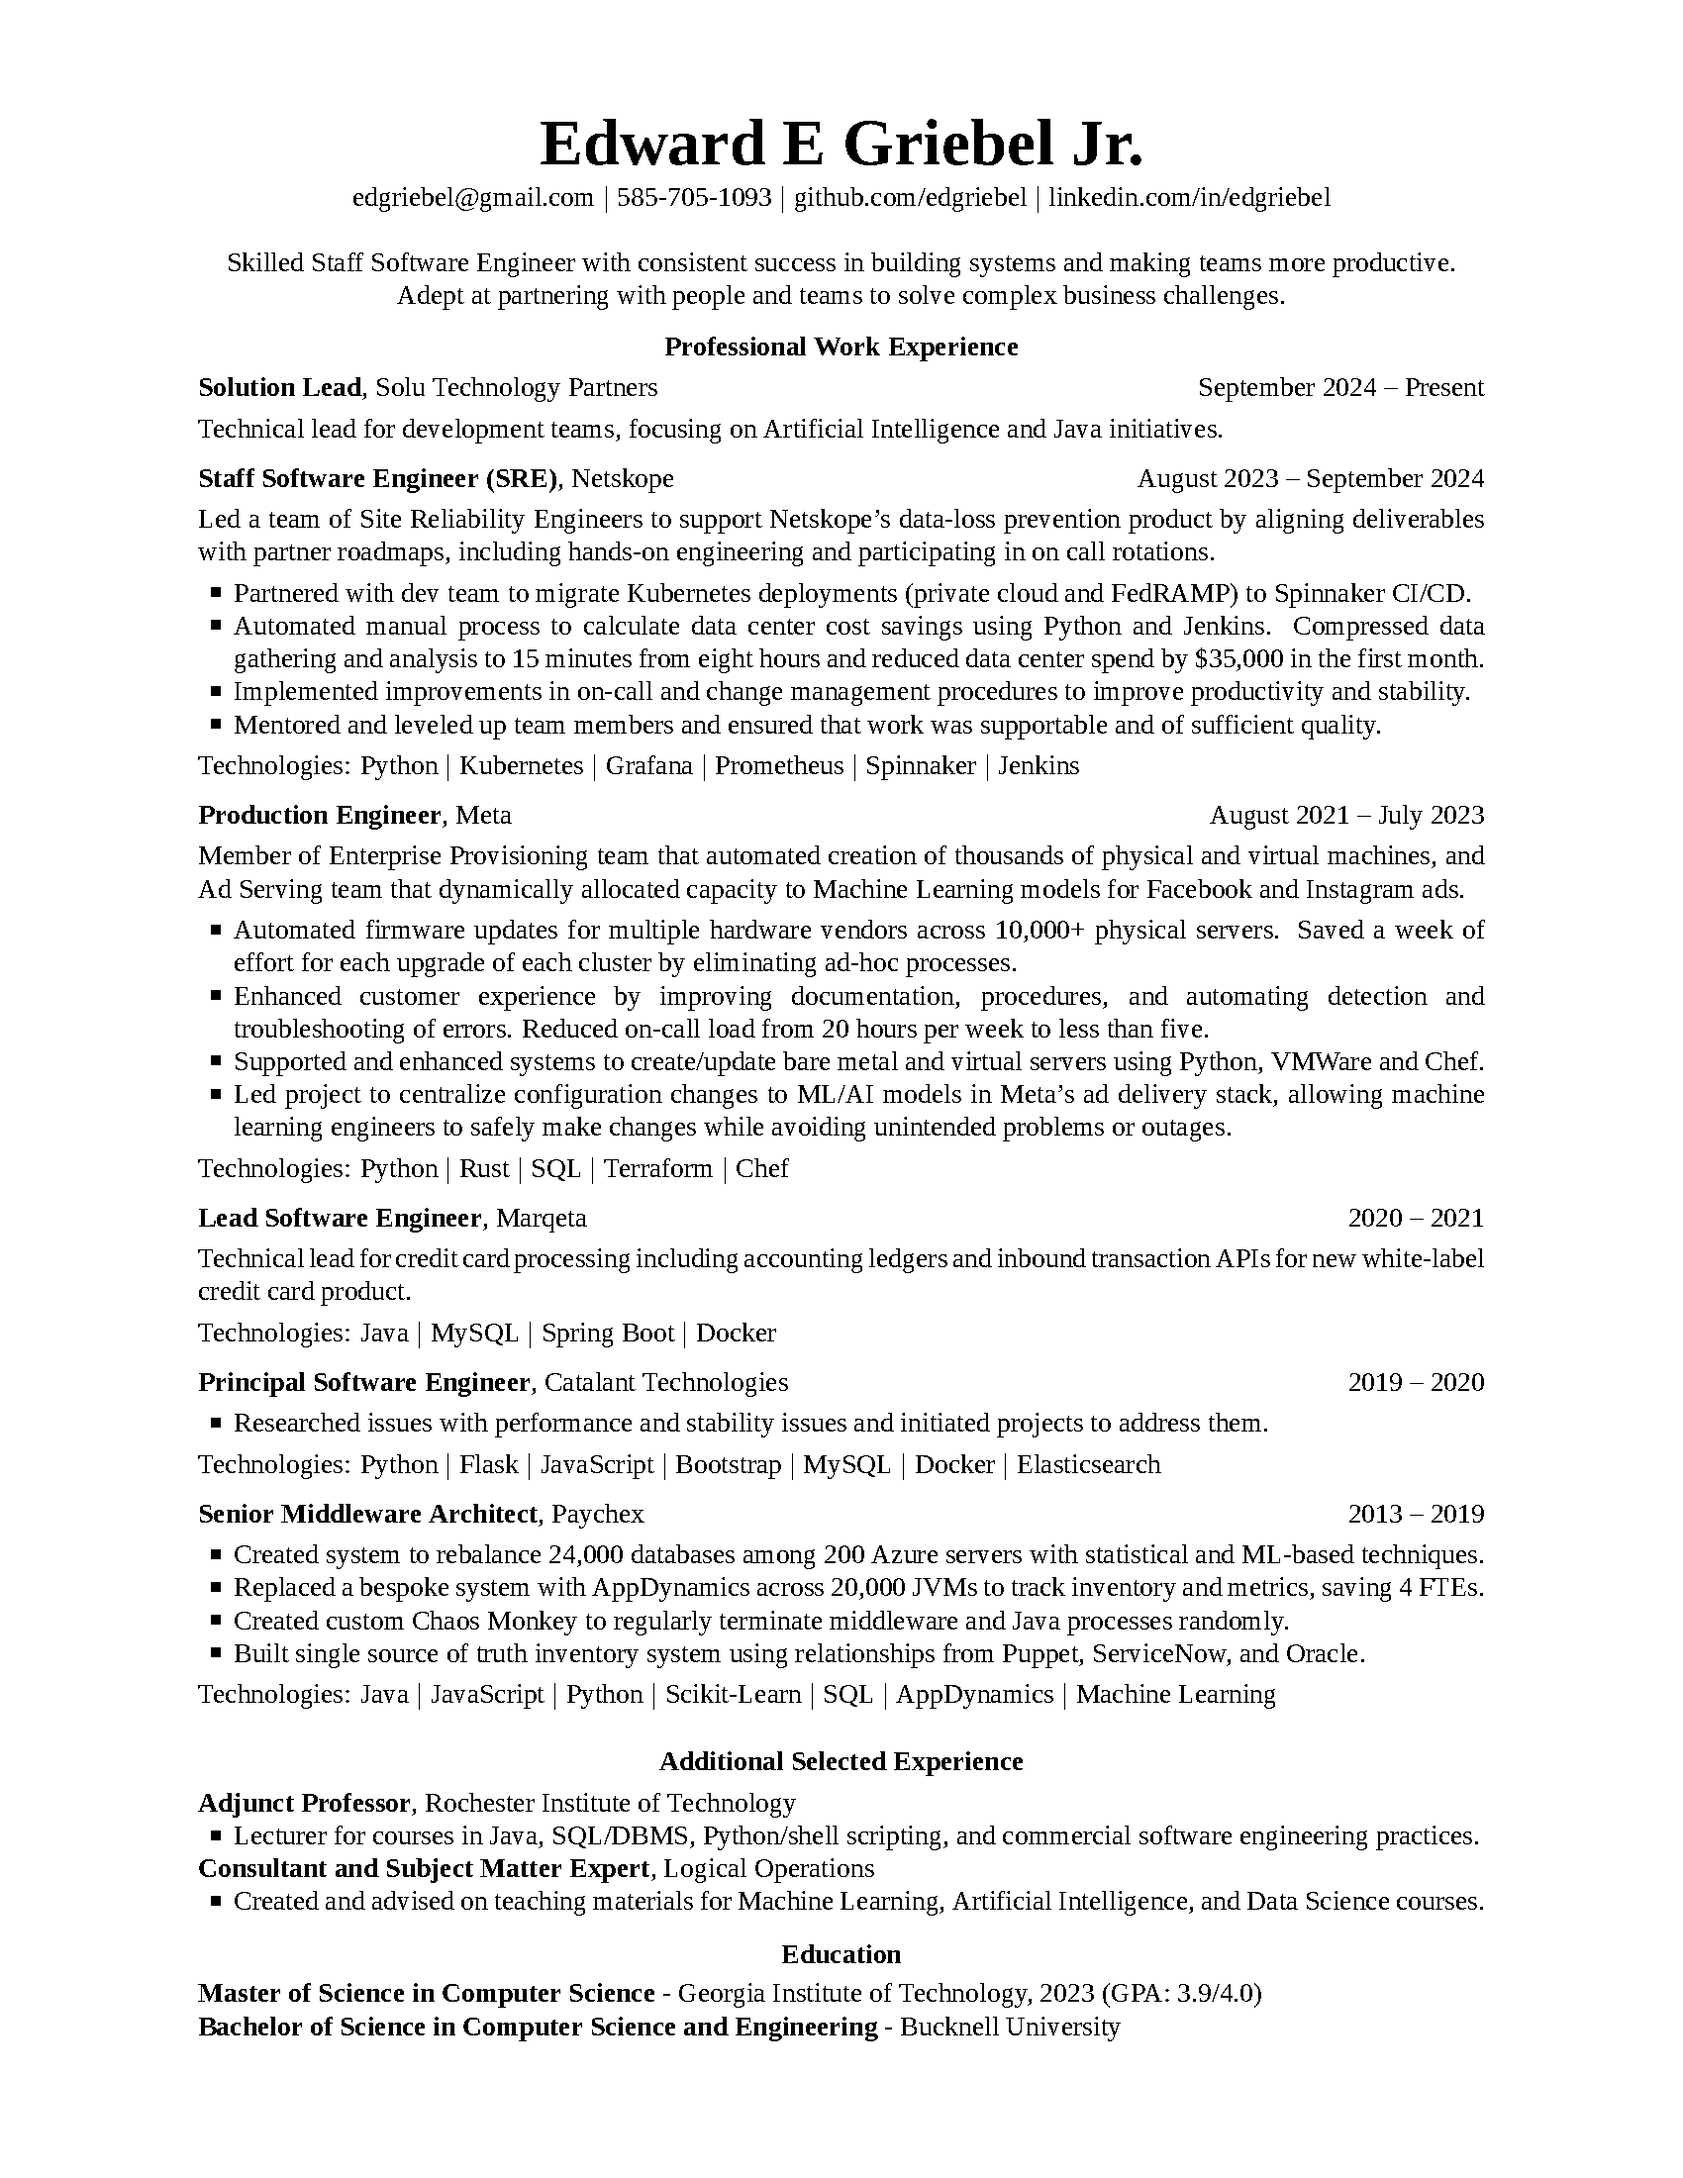
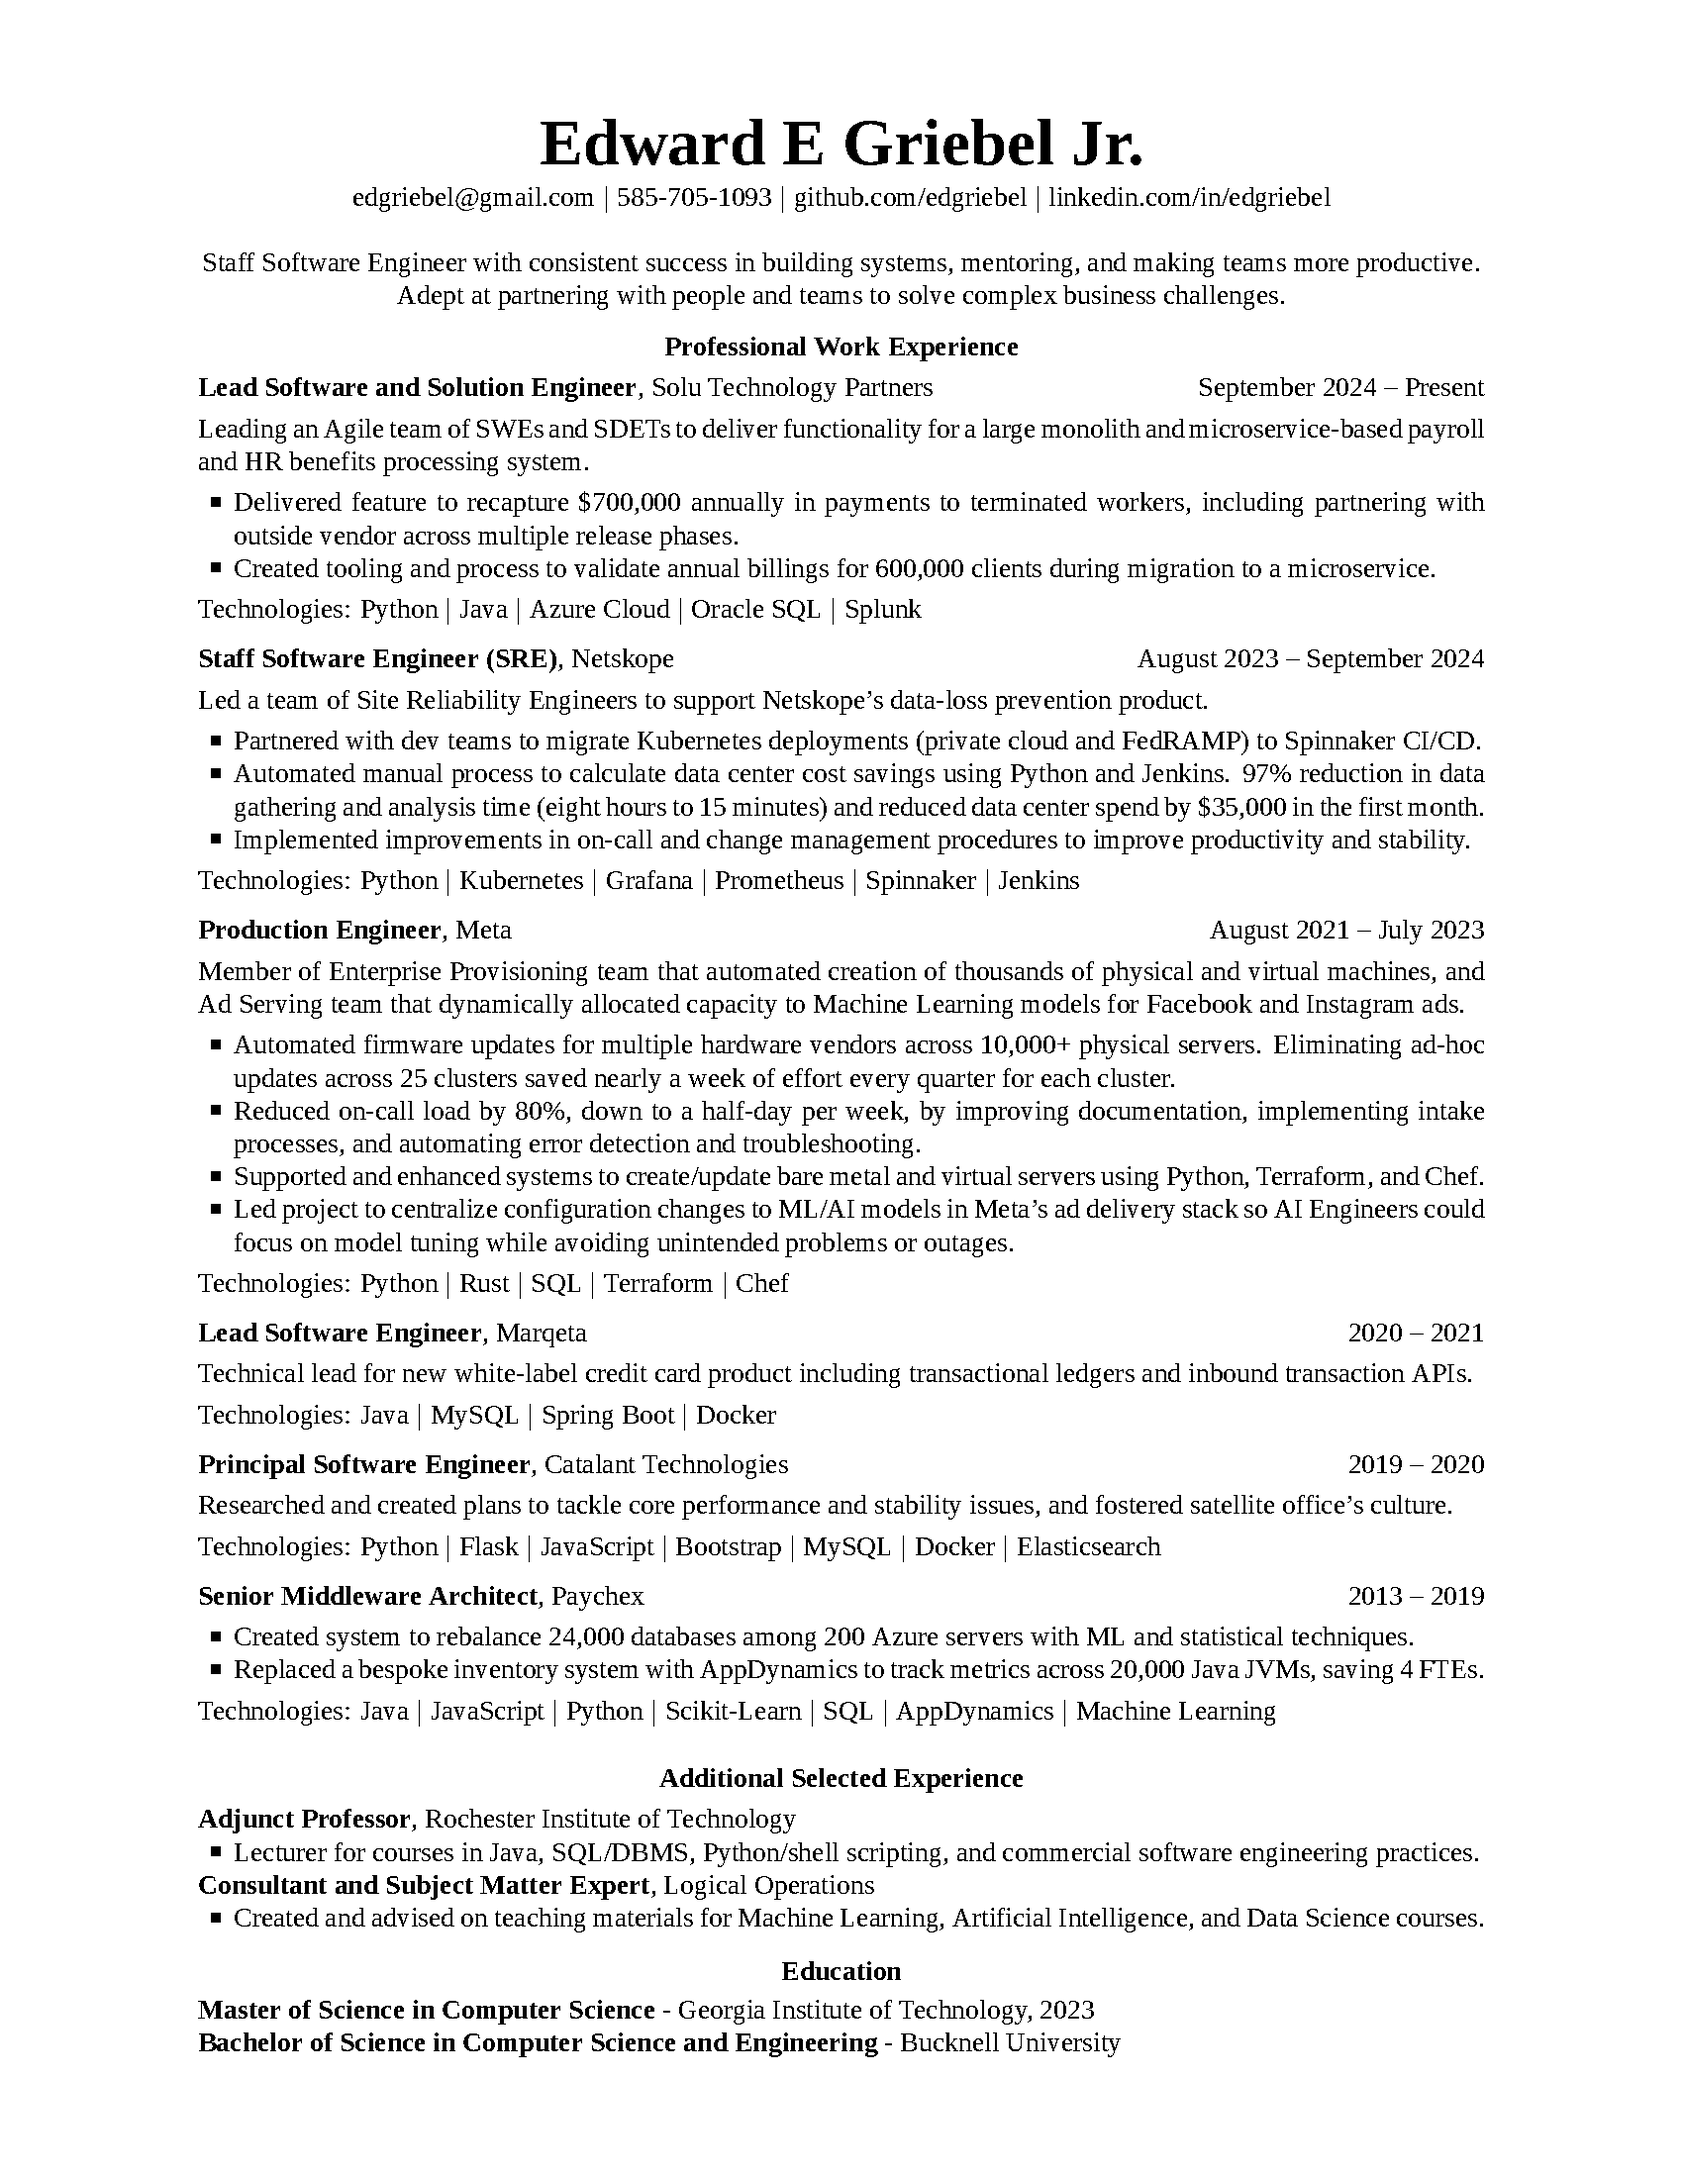
Flesh out Solu, tweak Meta, Nskp, Payx

Changed region(s): [[0.1247, 0.1545, 0.8729, 0.9582], [0.8106, 0.6182, 0.8729, 0.6491], [0.7171, 0.5564, 0.7482, 0.5873]]

diff --git a/Ed_Griebel_Resume.tex b/Ed_Griebel_Resume.tex
@@ -123,7 +123,7 @@ $|$ %% \,\SubBulletSymbol\,
 %% An accomplished full stack developer with consistent successes across multiple industries. 
 %% Deeply passionate about collaborating with others to design and deliver innovative systems that address complex business challenges. 
 \begin{center}
-Skilled Staff Software Engineer with consistent success in building systems and making teams more productive.
+Staff Software Engineer with consistent success in building systems, mentoring, and making teams more productive.
 Adept at partnering with people and teams to solve complex business challenges.
 
 %% \BigGap
@@ -145,16 +145,22 @@ Adept at partnering with people and teams to solve complex business challenges.
 {PDF:ProfessionalWorkExperience}
 
 \Entry
-\textbf{Solution Lead}, Solu Technology Partners
+\textbf{Lead Software and Solution Engineer}, Solu Technology Partners
 \hfill
 \DatestampYM{2024}{09} -- Present
 
 \Gap
 \begin{Detail}
-Technical lead for development teams, focusing on Artificial Intelligence and Java initiatives.
+%% Technical lead for development teams, focusing on Artificial Intelligence and Java initiatives.
+Leading an Agile team of SWEs and SDETs to deliver functionality for a large monolith and microservice-based payroll and HR benefits processing system.
+\Gap
+\BulletItem
+Delivered feature to recapture \$700,000 annually in payments to terminated workers, including partnering with outside vendor across multiple release phases.
+\BulletItem
+Created tooling and process to validate annual billings for 600,000 clients during migration to a microservice.
 \end{Detail}
 
-%% \tech{Python $|$ Azure Cloud $|$ Grafana $|$ Prometheus $|$ Spinnaker $|$ Jenkins}
+\tech{Python $|$ Java $|$ Azure Cloud $|$ Oracle SQL $|$ Splunk}
 
 \BigGap
 
@@ -167,19 +173,20 @@ Technical lead for development teams, focusing on Artificial Intelligence and Ja
 \Gap
 \begin{Detail}
 
-Led a team of Site Reliability Engineers to support Netskope's data-loss prevention product by aligning deliverables with partner roadmaps, including hands-on engineering and participating in on call rotations.
+Led a team of Site Reliability Engineers to support Netskope's data-loss prevention product. 
+%% by aligning deliverables with partner roadmaps, including hands-on engineering and participating in on call rotations.
 
 \Gap
 
 \BulletItem
-Partnered with dev team to migrate Kubernetes deployments (private cloud and FedRAMP) to Spinnaker CI/CD.
+Partnered with dev teams to migrate Kubernetes deployments (private cloud and FedRAMP) to Spinnaker CI/CD.
 
 %% \BulletItem
 %% Capacity tool...
 
 \BulletItem
 Automated manual process to calculate data center cost savings using Python and Jenkins. 
-Compressed data gathering and analysis to 15 minutes from eight hours and reduced data center spend by \$35,000 in the first month.
+97\% reduction in data gathering and analysis time (eight hours to 15 minutes) and reduced data center spend by \$35,000 in the first month.
 
 %% \BulletItem
 %% Participate in and supervise L1 and L2 24x7 on-call rotations during multi-year Kubernetes transformation.
@@ -187,8 +194,9 @@ Compressed data gathering and analysis to 15 minutes from eight hours and reduce
 \BulletItem
 Implemented improvements in on-call and change management procedures to improve productivity and stability.
 
-\BulletItem
-Mentored and leveled up team members and ensured that work was supportable and of sufficient quality.
+%% 20250501
+%% \BulletItem
+%% Mentored and leveled up team members and ensured that work was supportable and of sufficient quality.
 
 %% \BulletItem
 %% Implement utility to predict database capacity requirements based on existing customer metrics.
@@ -235,17 +243,19 @@ Lecturer for courses in Java, SQL/DBMS, Python/shell scripting, and commercial s
 Member of Enterprise Provisioning team that automated creation of thousands of physical and virtual machines,
 and Ad Serving team that dynamically allocated capacity to Machine Learning models for Facebook and Instagram ads.
 
-\Gap 
+\Gap
 
 \BulletItem
 %% Automated firmware updates for multiple hardware vendors across 10,000+ physical servers, eliminating ad-hoc processes and saving a week of effort for each team supporting a cluster.
-	Automated firmware updates for multiple hardware vendors across 10,000+ physical servers. Saved a week of effort for each upgrade of each cluster by eliminating ad-hoc processes.
+	%% Automated firmware updates for multiple hardware vendors across 10,000+ physical servers. Eliminating ad-hoc updates saved a week of effort per upgrade per cluster.
+	Automated firmware updates for multiple hardware vendors across 10,000+ physical servers. Eliminating ad-hoc updates across 25 clusters saved nearly a week of effort every quarter for each cluster.
 \BulletItem
-	Enhanced customer experience by improving documentation, procedures, and automating detection and troubleshooting of errors. Reduced on-call load from 20 hours per week to less than five.
+	%% Reduced on-call load from 20 to five hours per week by improving documentation, implementing intake processes, and automating the detection/troubleshooting of errors. 
+	Reduced on-call load by 80\%, down to a half-day per week, by improving documentation, implementing intake processes, and automating error detection and troubleshooting.
 \BulletItem
-	Supported and enhanced systems to create/update bare metal and virtual servers using Python, VMWare and Chef.
+	Supported and enhanced systems to create/update bare metal and virtual servers using Python, Terraform, and Chef.
 \BulletItem
-	Led project to centralize configuration changes to ML/AI models in Meta’s ad delivery stack, allowing machine learning engineers to safely make changes while avoiding unintended problems or outages.
+	Led project to centralize configuration changes to ML/AI models in Meta’s ad delivery stack so AI Engineers could focus on model tuning while avoiding unintended problems or outages.
 
 \iffalse 	%% Old version
 %% Production Engineering was created at Facebook to work with engineering teams and partners to champion the Reliability, Scalability, Performance, and Security posture of production services. PEs are hybrid software and systems engineers; they are the glue holding things together, whether that’s infrastructure and software or teams and processes.
@@ -300,7 +310,8 @@ Rochester, New York
 \Gap
 \begin{Detail}
 %% Technical lead for credit card processing including accounting ledgers and inbound transaction APIs.
-Technical lead for credit card processing including accounting ledgers and inbound transaction APIs for new white-label credit card product.
+%% Technical lead for credit card processing including accounting ledgers and inbound transaction APIs for new white-label credit card product.
+Technical lead for new white-label credit card product including transactional ledgers and inbound transaction APIs.
 
 \iffalse
 \Gap
@@ -357,9 +368,9 @@ Rochester, New York
 %% Built consensus around and implemented processes and procedures for primary SaaS product to improve supportability and developer productivity.
 
 %% \Gap
-\BulletItem
+%% \BulletItem
 %% Researched issues with performance and stability issues and implemented short- and long-term projects to address them.
-Researched issues with performance and stability issues and initiated projects to address them.
+Researched and created plans to tackle core performance and stability issues, and fostered satellite office's culture.
 
 %% \BulletItem
 %% Mentored junior developers in company's platform and industry best practices.
@@ -400,19 +411,21 @@ At Paychex I worked with multiple cross-functional teams to build: an inventory 
 
 \iftrue
 \BulletItem
-Created system to rebalance 24,000 databases among 200 Azure servers with statistical and ML-based techniques.
+Created system to rebalance 24,000 databases among 200 Azure servers with ML and statistical techniques.
 
 %% \BulletItem Built internal inventory system with web and REST APIs providing a single source of truth for virtualized and physical hosts, JVMs, CLRs, databases, and middleware. 
 %% Relationships sourced from external management systems including AppDynamics, Puppet, ServiceNow, and Oracle.
 
 \BulletItem
-Replaced a bespoke system with AppDynamics across 20,000 JVMs to track inventory and metrics, saving 4 FTEs.
+Replaced a bespoke inventory system with AppDynamics to track metrics across 20,000 Java JVMs, saving 4 FTEs.
 
-\BulletItem
-Created custom Chaos Monkey to regularly terminate middleware and Java processes randomly. 
+%% 20250501
+%% \BulletItem
+%% Created custom Chaos Monkey to regularly terminate middleware and Java processes randomly. 
 %% in Production and Dev environments.
-\BulletItem
-Built single source of truth inventory system using relationships from Puppet, ServiceNow, and Oracle.
+%% 20250501
+%% \BulletItem
+%% Built single source of truth inventory system using relationships from Puppet, ServiceNow, and Oracle.
 
 \tech{Java $|$ JavaScript $|$ Python $|$ Scikit-Learn $|$ \comment{TensorFlow $|$} SQL $|$ AppDynamics $|$ Machine Learning}
 \fi
@@ -702,7 +715,7 @@ Developed systems for MBS mortgage, Treasury, and Repo trading desks in C and C+
 
 \Entry
 \textbf{Master of Science in Computer Science} -
-Georgia Institute of Technology, 2023 (GPA: 3.9/4.0)
+Georgia Institute of Technology, 2023 %% (GPA: 3.9/4.0)
 %% \hfill 2023
 
 \ifNOTSELECTED %% No detail...
